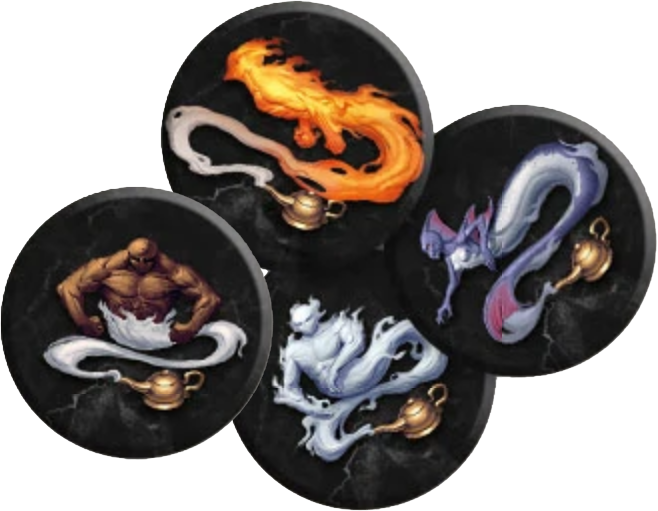
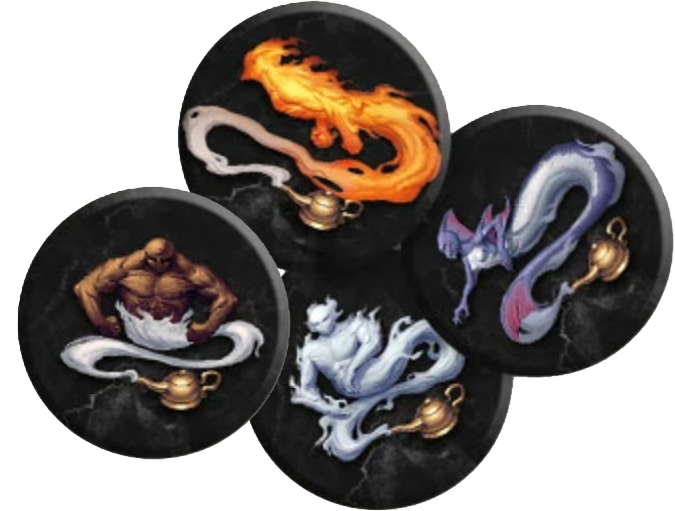
Summons again

diff --git a/sections/components.tex b/sections/components.tex
@@ -598,7 +598,7 @@ This guide provides a visual overview of all components included in every expans
     \begin{expansionmini}{conflux}
       \centering
       \vspace*{0.5em}
-      \includegraphics[width=0.9\linewidth]{\images/summon-tokens.png}
+      \includegraphics[width=\linewidth]{\images/summon-tokens.png}
       \caption{\textbf{\pagelink{Summoning}{Summon Tokens}}}
     \end{expansionmini}
   \end{subfigure}
